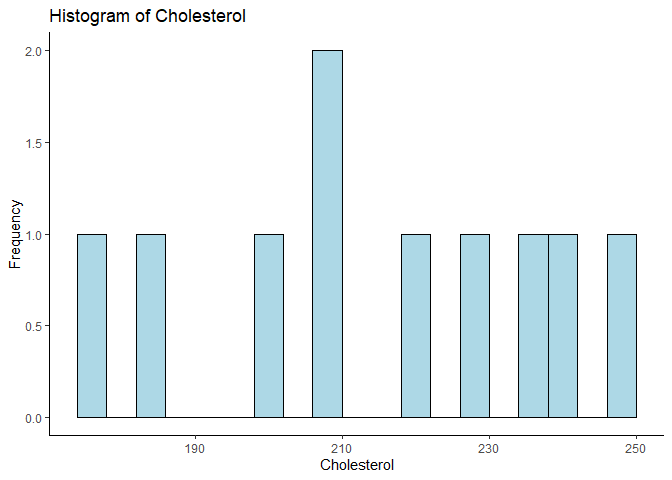
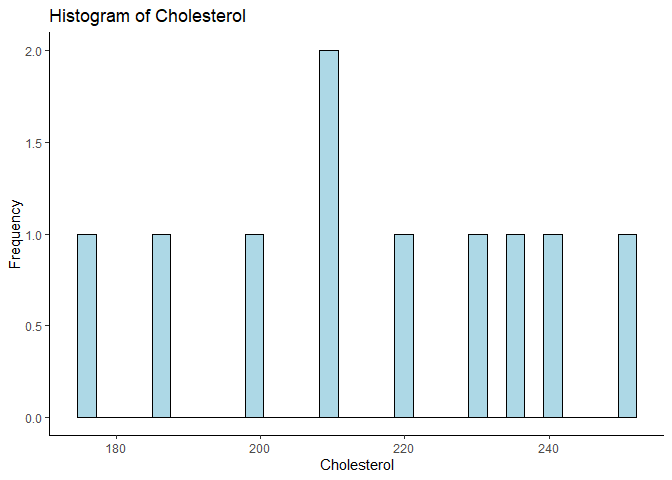
Change in bin

diff --git a/Correlation.md b/Correlation.md
@@ -113,16 +113,20 @@ model or other appropriate method.
 
     # Check for normality
     ggplot(mydata, aes(x = age)) +
-      geom_histogram(binwidth = 4, fill = "lightblue", color = "black") +
+      geom_histogram(fill = "lightblue", color = "black") +
       labs(title = "Histogram of Age", x = "Age", y = "Frequency")+
       theme_classic()
+
+    ## `stat_bin()` using `bins = 30`. Pick better value with `binwidth`.
 
 ![](Correlation_files/figure-markdown_strict/unnamed-chunk-3-1.png)
 
     ggplot(mydata, aes(x = cholesterol)) +
-      geom_histogram(binwidth = 4, fill = "lightblue", color = "black") +
+      geom_histogram(fill = "lightblue", color = "black") +
       labs(title = "Histogram of Cholesterol", x = "Cholesterol", y = "Frequency")+
       theme_classic()
+
+    ## `stat_bin()` using `bins = 30`. Pick better value with `binwidth`.
 
 ![](Correlation_files/figure-markdown_strict/unnamed-chunk-4-1.png)
 
